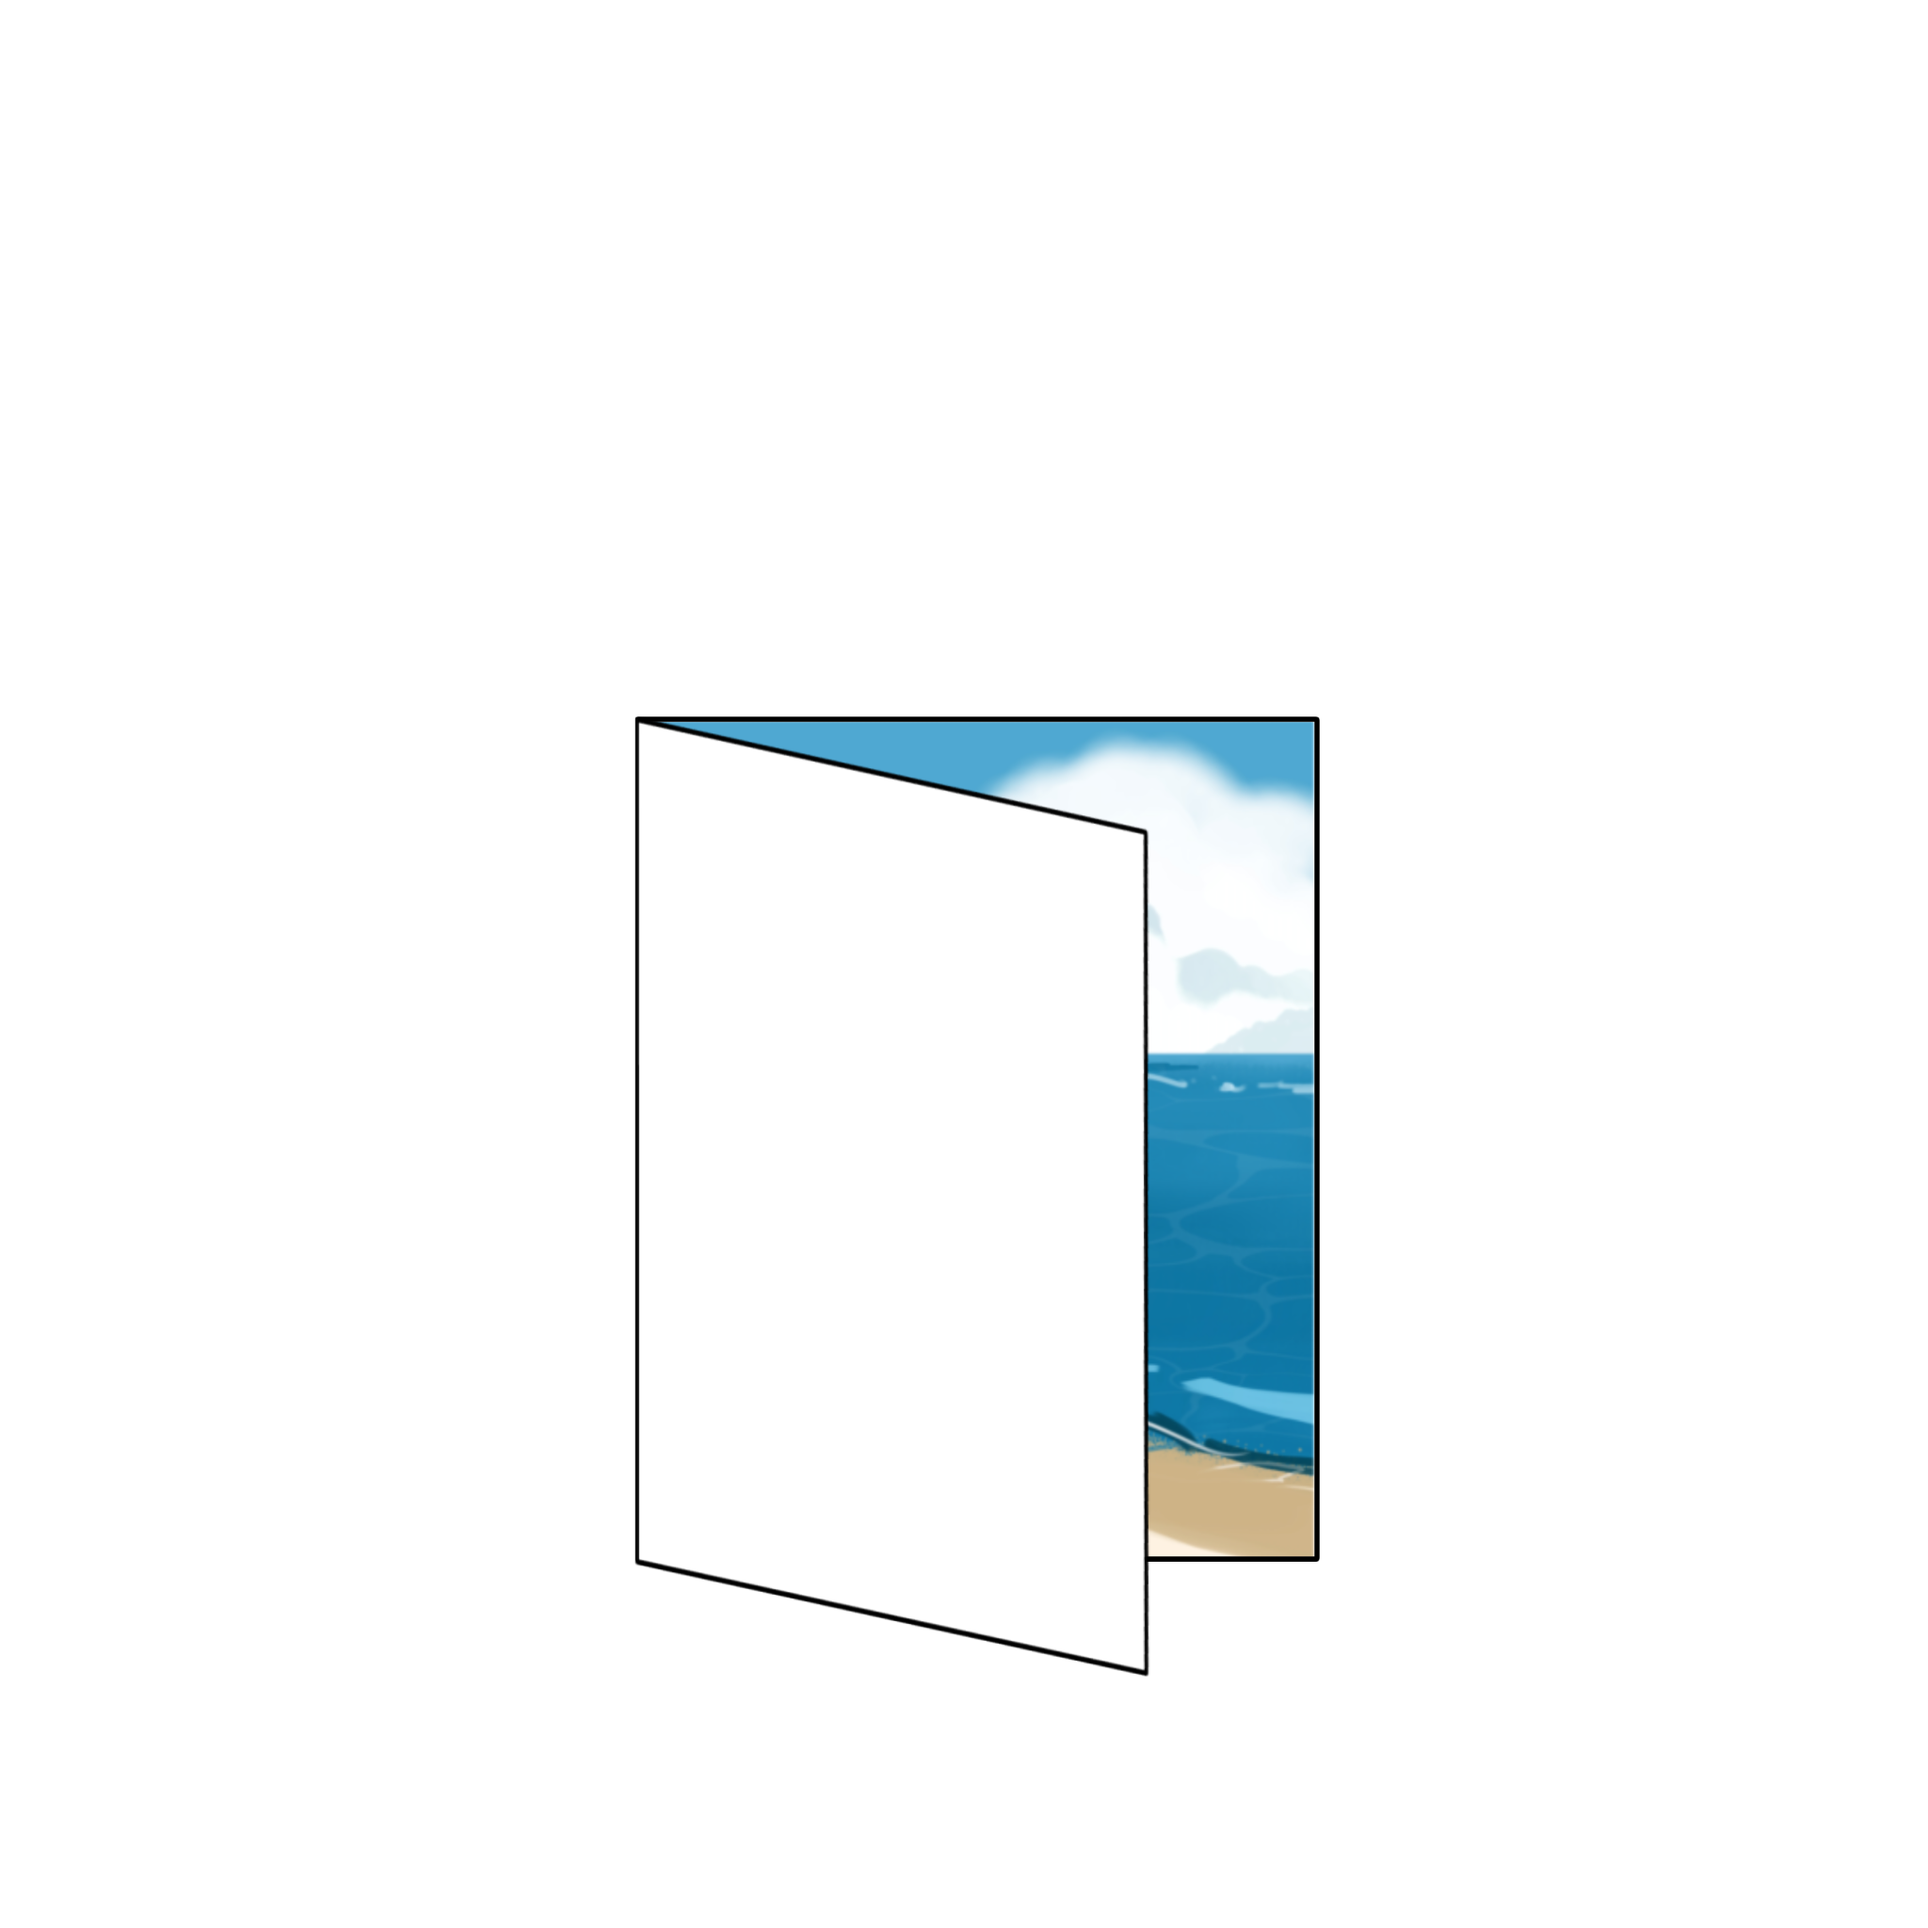
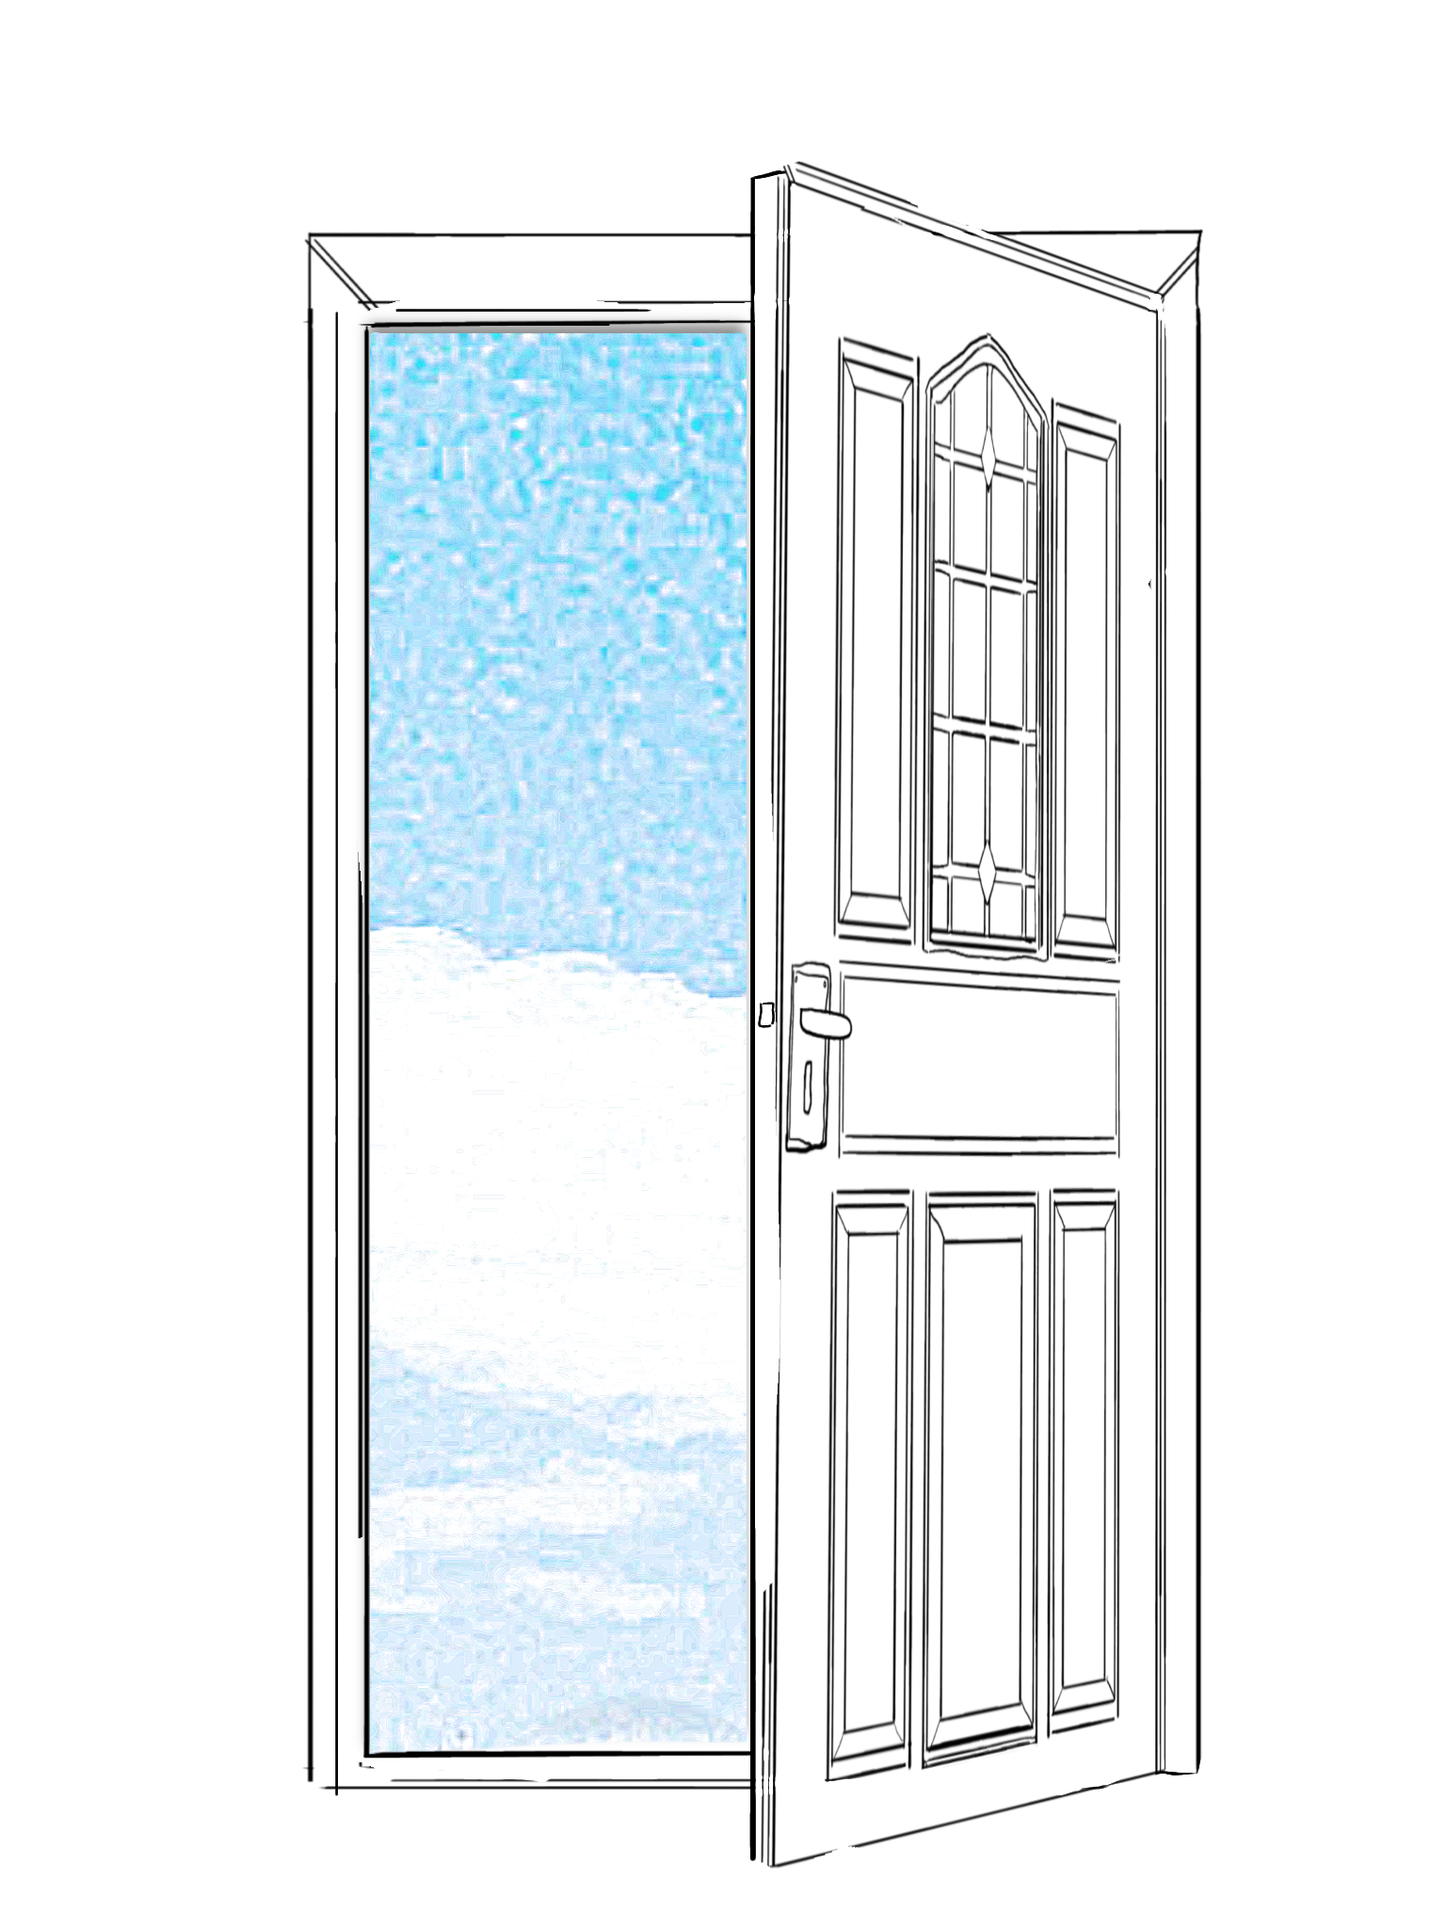
ajustando as rotas e reorganizando os arquivos '

Changed region(s): [[0.1875, 0.0625, 0.8438, 0.9688]]

diff --git a/app.js b/app.js
@@ -1,8 +1,8 @@
 // =========================================================
 // |     "Onde vou rodar isso? Meu PC ou site real?"       |
 // =========================================================
-   let ambiente_processo = 'desenvolvimento';
-// let ambiente_processo = 'producao';
+   const ambiente_processo = 'desenvolvimento';
+// const ambiente_processo = 'producao';
 
 
 // =========================================================
@@ -42,11 +42,11 @@
 // =========================================================
 // |               "Importação das rotas"                  |
 // =========================================================
-    const indexRouter = require("./src/modules/login/login.routes");
-    const usuarioRouter = require("./src/modules/usuario/usuario.routes");
-    const convidadoRouter = require("./src/modules/convidado/convidado.routes");
-    const economiaRouter = require("./src/modules/economia/economia.routes");
-    const listaRouter = require("./src/modules/lista/lista.routes");
+    const indexRouter = require("./src/routes/login_routes.js");
+    const usuarioRouter = require("./src/modules/usuario/usuario_routes.js");
+    const convidadoRouter = require("./src/modules/convidado/convidado_route.js");
+    const economiaRouter = require("./src/modules/economia/economia_routes.js");
+    const listaRouter = require("./src/modules/lista/lista_routes.js");
 
     
 // =========================================================

diff --git a/src/routes/convidado_routes.js b/src/routes/convidado_routes.js
@@ -1,0 +1,12 @@
+
+let express = require("express");
+let router = express.Router();
+let convidadoController = require("../controller/convidado_controller.js");
+
+router.get("/contar/:usuarioId", convidadoController.totalConvidado);
+router.get("/meus/:usuarioId",   convidadoController.listarSoMeus);
+router.get("/:usuarioId",        convidadoController.listar);
+router.post("/",                 convidadoController.adicionar);
+router.delete("/:id",            convidadoController.remover);
+
+module.exports = router;

diff --git a/src/routes/economia_routes.js b/src/routes/economia_routes.js
@@ -1,7 +1,7 @@
 
-const express = require("express");
-const router = express.Router();
-const economiaController = require("./economia.controller");
+let express = require("express");
+let router = express.Router();
+let economiaController = require("../controller/economia_controller.js");
 
 router.get("/soma/:usuarioId",  economiaController.totalEconomia);
 router.get("/todos/:usuarioId", economiaController.listarTodos);

diff --git a/src/routes/usuario_routes.js b/src/routes/usuario_routes.js
@@ -1,0 +1,10 @@
+
+let express = require("express");
+let router = express.Router();
+let usuarioController = require("../controller/usuario_controller.js");
+
+router.post("/cadastrar",          usuarioController.cadastrar);
+router.post("/autenticar",         usuarioController.autenticar);
+router.get("/parceiro/:usuarioId", usuarioController.buscarParceiro);
+
+module.exports = router;

diff --git a/src/routes/lista_routes.js b/src/routes/lista_routes.js
@@ -1,8 +1,9 @@
+
 let express = require("express");
 let router = express.Router();
-let listaController = require("./lista.controller");
+let listaController = require("../controller/lista_controller.js");
 
-router.get("/", listaController.listar);
+router.get("/listar", listaController.listar);
 router.delete("/:id", listaController.remover);
 
 module.exports = router;

diff --git a/src/controller/economia_controller.js b/src/controller/economia_controller.js
@@ -1,6 +1,6 @@
 
-const economiaModel = require("./economia.model");
-const usuarioModel = require("../usuario/usuario.model");
+const economiaModel = require("../modules/model/economia_model.js");
+const usuarioModel = require("../modules/model/usuario_model.js");
 
 function listar(req, res) {
     const usuarioId = req.params.usuarioId;

diff --git a/src/controller/convidado_controller.js b/src/controller/convidado_controller.js
@@ -1,6 +1,6 @@
 
-let convidadoModel = require("./convidado.model");
-let usuarioModel = require("../usuario/usuario.model");
+const convidadoModel = require("../model/convidado_model.js");
+const usuarioModel = require("../model/usuario_model.js");
 
 function listar(req, res) {
     let usuarioId = req.params.usuarioId;

diff --git a/src/model/economia_model.js b/src/model/economia_model.js
@@ -1,5 +1,5 @@
 
-const database = require("../../config/database");
+const database = require("../config/database.js");
 
 function listar(usuarioId, parceiroId) {
     const sql = `SELECT id, valor, fkUsuario FROM economia WHERE fkUsuario = ? OR fkUsuario = ?`;

diff --git a/src/model/usuario_model.js b/src/model/usuario_model.js
@@ -1,5 +1,5 @@
 
-let database = require("../../config/database")
+let database = require("../config/database.js")
 
 function cadastrar(nome, email, senha, fkParceiro) {
     let sql = `INSERT INTO usuario (nome, email, senha, fkParceiro) VALUES (?, ?, ?, ?);`;

diff --git a/src/model/convidado_model.js b/src/model/convidado_model.js
@@ -1,5 +1,5 @@
 
-let database = require("../../config/database");
+const database = require("../config/database.js");
 
 function listar(usuarioId, parceiroId) {
     let sql = `SELECT id, nome, fkUsuario FROM convidado WHERE fkUsuario = ? OR fkUsuario = ?;`;

diff --git a/public/js/lista.js b/public/js/lista.js
@@ -24,7 +24,7 @@ function renderLista() {
 }
 
 function carregarConvidados() {
-    fetch('/lista')
+    fetch('/lista/listar')
         .then(function (res) {
             return res.json();
         })

diff --git a/src/controller/usuario_controller.js b/src/controller/usuario_controller.js
@@ -1,5 +1,5 @@
 
-const usuarioModel = require("./usuario.model");
+const usuarioModel = require("../model/usuario_model.js");
 
 function cadastrar(req, res) {
     const nome = req.body.nome;
